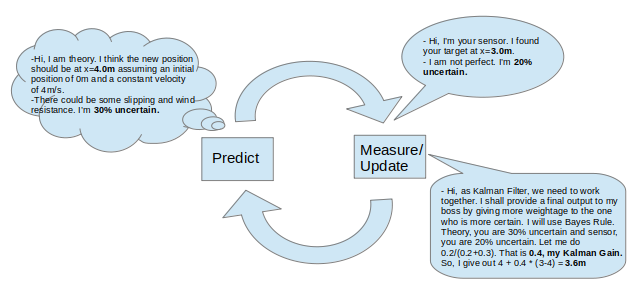
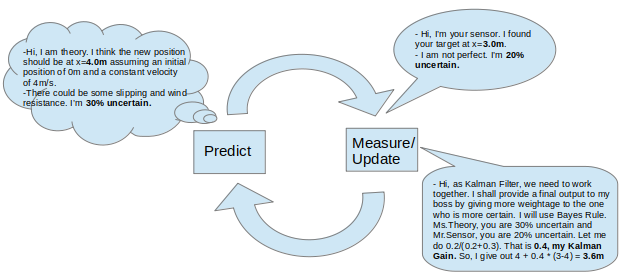
README.md edited to fix typos, to improve explanations, image in writeup modified to fix text in final conversation bubble

diff --git a/README.md b/README.md
@@ -28,15 +28,15 @@ The project can be built and run by doing the following from the project top dir
 ## Introduction
 The project objective is to track the x,y position and velocities of a bicycle as observed from a stationary vehicle using Lidar and Radar sensors. The sensor data is fed by a simulator to our main project code through a uWebSocketIO connection.
 
-This data is initially stored in the form of a [text file] (data/obj_pose-laser-radar-synthetic-input.txt) with each row representing a measurement from one of these sensors at a different time. The columns contain information such as the sensor type (laser or radar), sensor measurements such as positions and velocities and the corresponding ground truth values. Our main code receives this information from the simulator through the uWebSocketIO connection and processes it using an Extended Kalman Filter to give us a final filtered output to track the bicycle's position and velocity.
+This data is initially stored in the form of a [text file](data/obj_pose-laser-radar-synthetic-input.txt) with each row representing a measurement from one of these sensors at a different time. The columns contain information such as the sensor type (laser or radar), sensor measurements such as positions and velocities and the corresponding ground truth values. Our main code receives this information from the simulator through the uWebSocketIO connection and processes it using an Extended Kalman Filter to give us a final filtered output to track the bicycle's position and velocity.
 
 ## Description of working of the Extended Kalman Filter
 
-A Kalman filter is basically an algorithm to estimate the state of a system such as position, orientation, velocity, pressure, temperature, voltage, etc. using a combination of physical laws and measurements. We need the filter since only measurements from sensors are usually noisy and only predictions based on physical laws could be erroneous due to uncertainities. The Kalman filter combines inputs from both these sources using laws of probabilities, based on the uncertainities. 
+A Kalman filter is basically an algorithm to estimate the state of a system such as position, orientation, velocity, pressure, temperature, voltage, etc. using a combination of physical laws and measurements. We need the filter because measurements from sensors are usually noisy and predictions based on physical laws could be erroneous due to uncertainities in initial state and processes. The Kalman filter combines inputs from both these sources using laws of probabilities, weighted using the degree of uncertainities in these sources. 
 
-It is basically a two step process - a predict step followed by an update(or measurement) step, which is repeated cyclically. In the first predict step, the new state(for example, position) is predicted using a known physical law (based on certain assumptions such as constant velocity). The uncertainity in this state is noted down. As a second step, this state is updated based on the actual measurement (say, coming in from a position sensor). During this update step, the position is updated based on the ratio of the uncertainities in both the steps. It is similar to taking a weighted average of two quantities, with the higher weight being assigned to the value with lower uncertainity and a lower weight being assigned to the value with higher uncertainity.  
+It is basically a two step process - a predict step followed by an update (or measurement) step, which is repeated cyclically. In the first predict step, the new state (for example, position) is predicted using a known physical law (based on certain assumptions such as constant velocity). The uncertainity in this state is noted down. As a second step, this state is updated based on the actual measurement (say, coming in from a position sensor). During this update step, the state (in this example, the position) is updated based on the ratio of the uncertainities in both steps. It is similar to taking a weighted average of two quantities, with the higher weight being assigned to the value with lower uncertainity and a lower weight being assigned to the value with higher uncertainity. So, the final estimated state will be closer to the predicted state if the predicted state has lower uncertainity than the measurement and vice-versa.  
 
-This ratio which is used for the weighing is called the Kalman gain.
+This ratio which is used for the weighting is called the Kalman gain.
 
 The Kalman filter can be understood with the help of the following diagram.
 ![alt text][image1]
@@ -45,38 +45,51 @@ These two steps can be implemented using the following two sets of equations:
 ![alt text][image2]
 
 where x is the state vector describing the quantity being tracked such as position, velocity, pressure, temperature, voltage, etc.;
+
 P is the state covariance matrix, indicating the uncertainity in the quantity;
-F is the state transformation matrix, updating the predictions from time to time based on the physical laws;
+
+F is the state transformation matrix, updating the predictions from time to time, based on the physical laws;
+
 Q is the process covariance matrix, consisting of the noise in the process;
-z is the sensor measurement, H is the measurement matrix transforming the state vector to the space of the measurement values;
+
+z is the sensor measurement;
+
+H is the measurement matrix transforming the state vector to the space of the measurement values;
+
 R is the uncertainity in the sensor measurement;
+
 S is the sum of the uncertainities - state covariance and the sensor noise;
-K is the ratio of the uncertainity in predict step(state covariance) with respect to the sum of the uncertainities(prediction + measurement);
+
+K is the ratio of the uncertainity in prediction (state covariance) with respect to the sum of the uncertainities (prediction + measurement);
+
 The prime symbol (') is used with x and P to indicate that it is updated after the prediction step.
 
 
-In case the prediction and/or measurement steps consist of nonlinearities in place of the linear operations performed by the F and/or H matrix on the state vector x, we need to use an Extended Kalman filter. This is because non-linear transformations on the state vector do not keep the Gaussian/normal assumption valid. The Gaussian assumption is core to the Kalman filter algorithm. In case of such non-linearities, the transformations have to be linearized in the neighborhood of the predicted/measured values. Thus, an Extended Kalman Filter differs from a normal Kalman Filter in the following manner:
+In case, the prediction and/or measurement steps consist of nonlinearities in place of the linear operations performed by the F and/or H matrix on the state vector x, we need to use an Extended Kalman filter. This is because non-linear transformations on the state vector do not keep the Gaussian/normal assumption valid. The Gaussian assumption is core to the Kalman filter algorithm. In case of such non-linearities, the transformations have to be linearized in the neighborhood of the predicted/measured values. Thus, an Extended Kalman Filter differs from a normal Kalman Filter in the following manner:
 
 a.The H matrix is replaced by its Jacobian matrix Hj when calculating  S, K and P.
+
 b.The F matrix is replaced by its Jacobian Fj matrix when calculating P'.
+
 c.x' is calculated using prediction update function, f instead of matrix F.
+
 d.y is calculated using the function h, instead of matrix H.
 
-In this particular project, the predict step is not affected and will continue to be the same, the measure step for the lidar will also continue to be the same, but the measure step for the radar will use the extended Kalman Filter equations due to non-linear relationship between the measurement z and the state vector x.
+In this particular project, the predict step is not affected and will continue to be the same for both the laser and radar, the measure step for the laser will also continue to be the same, but the measure step for the radar will use the extended Kalman Filter equations due to non-linear relationship between the measurement z obtained from the radar and the state vector x. The measurement z obtained from the radar is in Polar coordinates, whereas the state vector is in Cartesian coordinates. Inorder to calculate error between prediction and measurement, the state vector needs to be transformed into polar coordinates, and this transformation is non-linear in nature and hence an Extended Kalman Filter update is required in this case.
 
 ## Brief explanation of key blocks in the code
 
 The code consists of the following files:
 
-1. `main.cpp` - This file contains the code to interface with the simulator - to receive the measurement data and ground truths , to supply the algorithm with the measurement values one by one line by line(to the `FusionEKF.cpp`), to call the Kalman filter predict and update steps(in `kalman_filter.cpp`) and receive the Kalman estimated values, to call the Jacobian and performance calculation (`CalculateJacobian`` and `CalculateRMSE` in `tools.cpp`) function and send the estimates and RMSE back to the simulator using the uWebSocketIO connection.
+1. `main.cpp` - This file contains the code to interface with the simulator - to receive the measurement data and ground truths, to supply the algorithm with the measurement values one by one, line by line (to the `FusionEKF.cpp`), to call the Kalman filter predict and update functions (in `kalman_filter.cpp`) and receive the Kalman estimated values, to call the Jacobian and the RMSE performance calculation functions (`CalculateJacobian` and `CalculateRMSE` in `tools.cpp`), and finally to send the estimates and RMSE back to the simulator using the uWebSocketIO connection.
 2. `FusionEKF.h` and `FusionEKF.cpp` - These files contain the header with the class and function definitions and the code for processing the received measurements supplied by the`main.cpp`. This segment of the code checks the type of sensor, initializes the state vector and the other matrices used in the calculation, stores and calculates the time difference between subsequent measurements for use in the prediction step, calls the predict and either the update or updateEKF functions based on the type of sensor (laser/radar) in `kalman_filter.cpp`. It also calls the CalculateJacobian function in `tools.cpp` to assign the Jacobian matrix Hj as H, before the update step, in case the sensor is radar.
-3. `tools.h` and `tools.cpp` - These files contain the class headers and definition for the calculation of the Jacobian of the measurement matrix, Hj and a measure of the error between the Kalman estimate and the ground truth.
-4. `kalman_filter.h` and `kalman_filter.cpp` - These files have the headers and definition for the prediction and update steps. The Kalman filter equations can be found in this segment of the code. There is a common predict step for both the laser and the radar sensors, but a separate measurement update step for each of the laser and the radar sensors. The Update function for the laser sensor uses the normal Kalman update equations, whereas the UpdateEKF function for the radar uses the extended Kalman filter equations, where the H matrix is replaced by the Jacobian Hj matrix for all equations, and the y calculation uses a non-linear h function transforming the cartesian state vector variables to the polar coordinate variables instead of the simple linear transformation using H matrix.
+3. `tools.h` and `tools.cpp` - These files contain the class headers and function definitions for the calculation of the Jacobian of the measurement matrix Hj and the root mean square measure of the error between the Kalman estimate and the ground truth.
+4. `kalman_filter.h` and `kalman_filter.cpp` - These files have the headers and definition for the prediction and update steps. The Kalman filter equations can be found in this segment of the code. There is a common predict step for both the laser and the radar sensors, but a separate measurement update step for each of the laser and the radar sensors. The Update function for the laser sensor uses the normal Kalman update equations, whereas the UpdateEKF function for the radar uses the extended Kalman filter equations, where the H matrix is replaced by the Jacobian Hj matrix for all equations. The other difference between the two update functions is that in the Extended Kalman Filter, the y calculation in the radar uses a non-linear h function transforming the Cartesian state vector variables to the Polar coordinate variables instead of the usual linear transformation using H matrix.
 5. `measurement_package.h` - header file with class definition to store sensor type, timestamp and the actual sensor data.
 6. `json.hpp` - for communication with the Udacity Unity simulator.
 7. `Eigen` library - for vector and matrix operations.
 
-The items 1, 5, 6 and 7 are not modified and are used directly, while the code in 2,3 and 4 has been significantly modified and filled in to program the Kalman filter and measure the performance. 
+The items 1, 5, 6 and 7 are not modified and are used directly, while the code in items 2,3 and 4 has been newly created or significantly modified inorder to program the Kalman filter and measure the performance. 
 
 
 ---
@@ -97,7 +110,7 @@ The Sensor Fusion algorithm used here follows the general processing flow of fir
 #### First measurements
 The code uses the first measurements to initialize the state vectors and covariance matrices.
 #### Sequence - Predict, then Update
-After the first measurement to initialize the vectors and matrices, for every subsequent measurement, the algorithm used in the code predicts the object position to the current timestep and then updates the prediction using the new measurement.
+After the first measurement to initialize the vectors and matrices, for every subsequent measurement, the algorithm used in the code first predicts the object position to the current timestep and then updates the prediction using the new measurement.
 #### Handle both radar and lidar
 The algorithm used here sets up the appropriate matrices (such as H and Hj) based on the incoming type of measurement (such as laser and radar) and calls the correct measurement function (such as Update and UpdateEKF) for the given sensor type.
 
